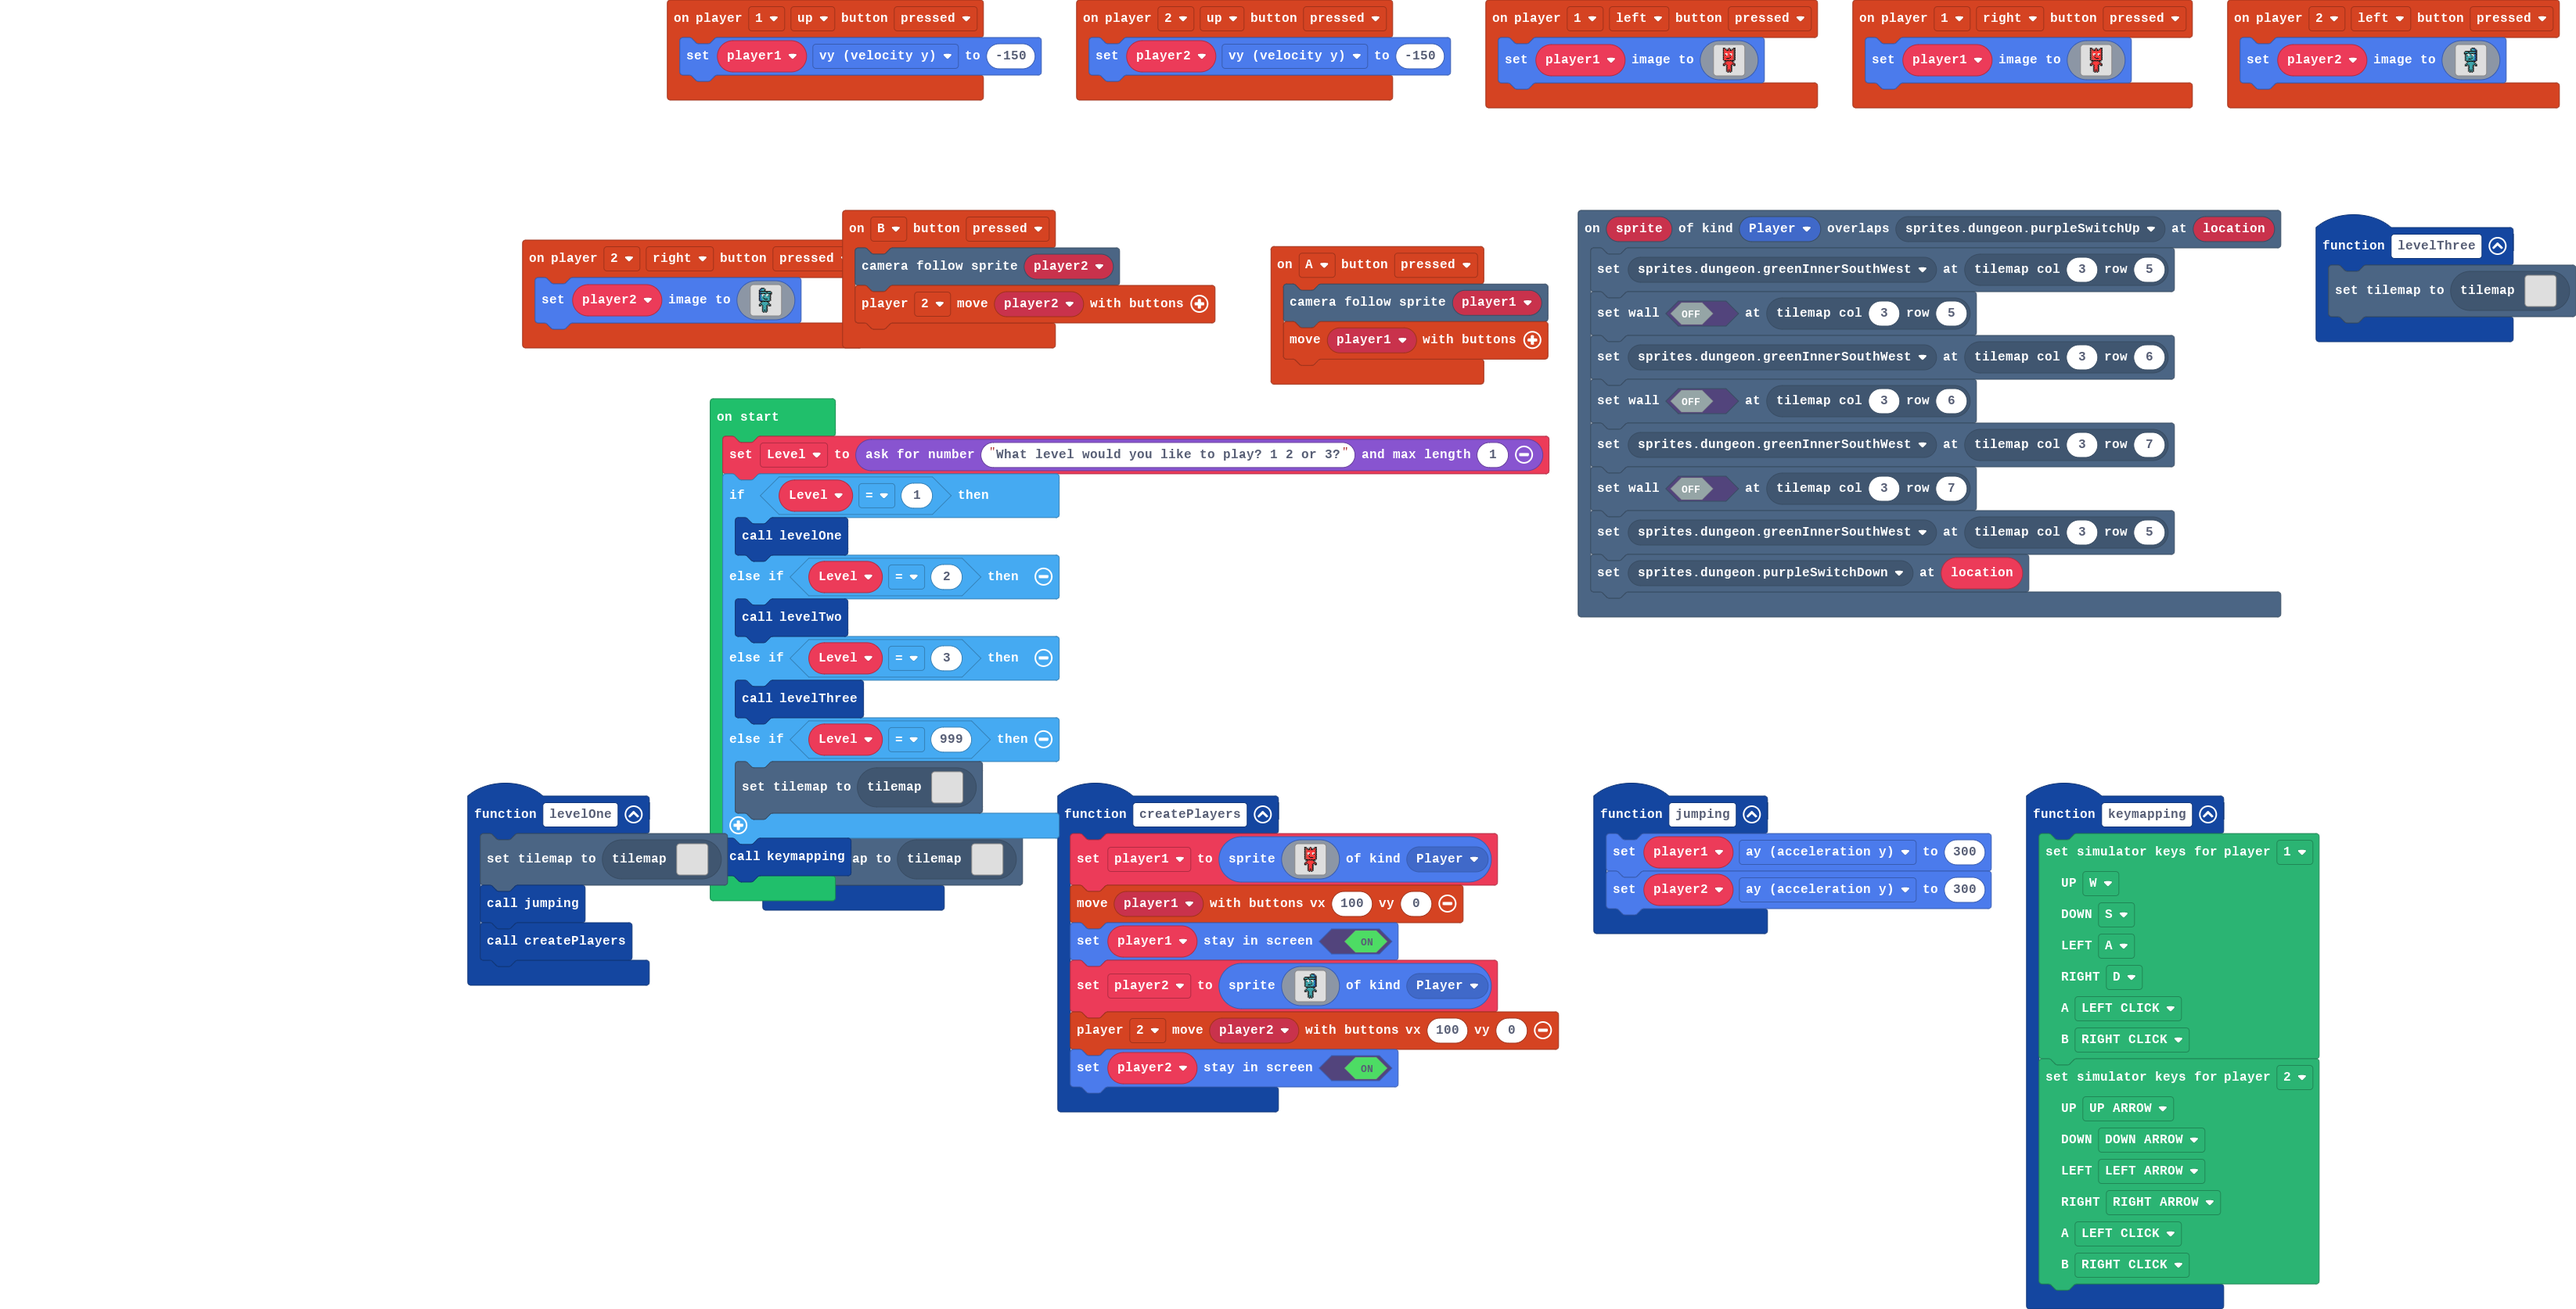
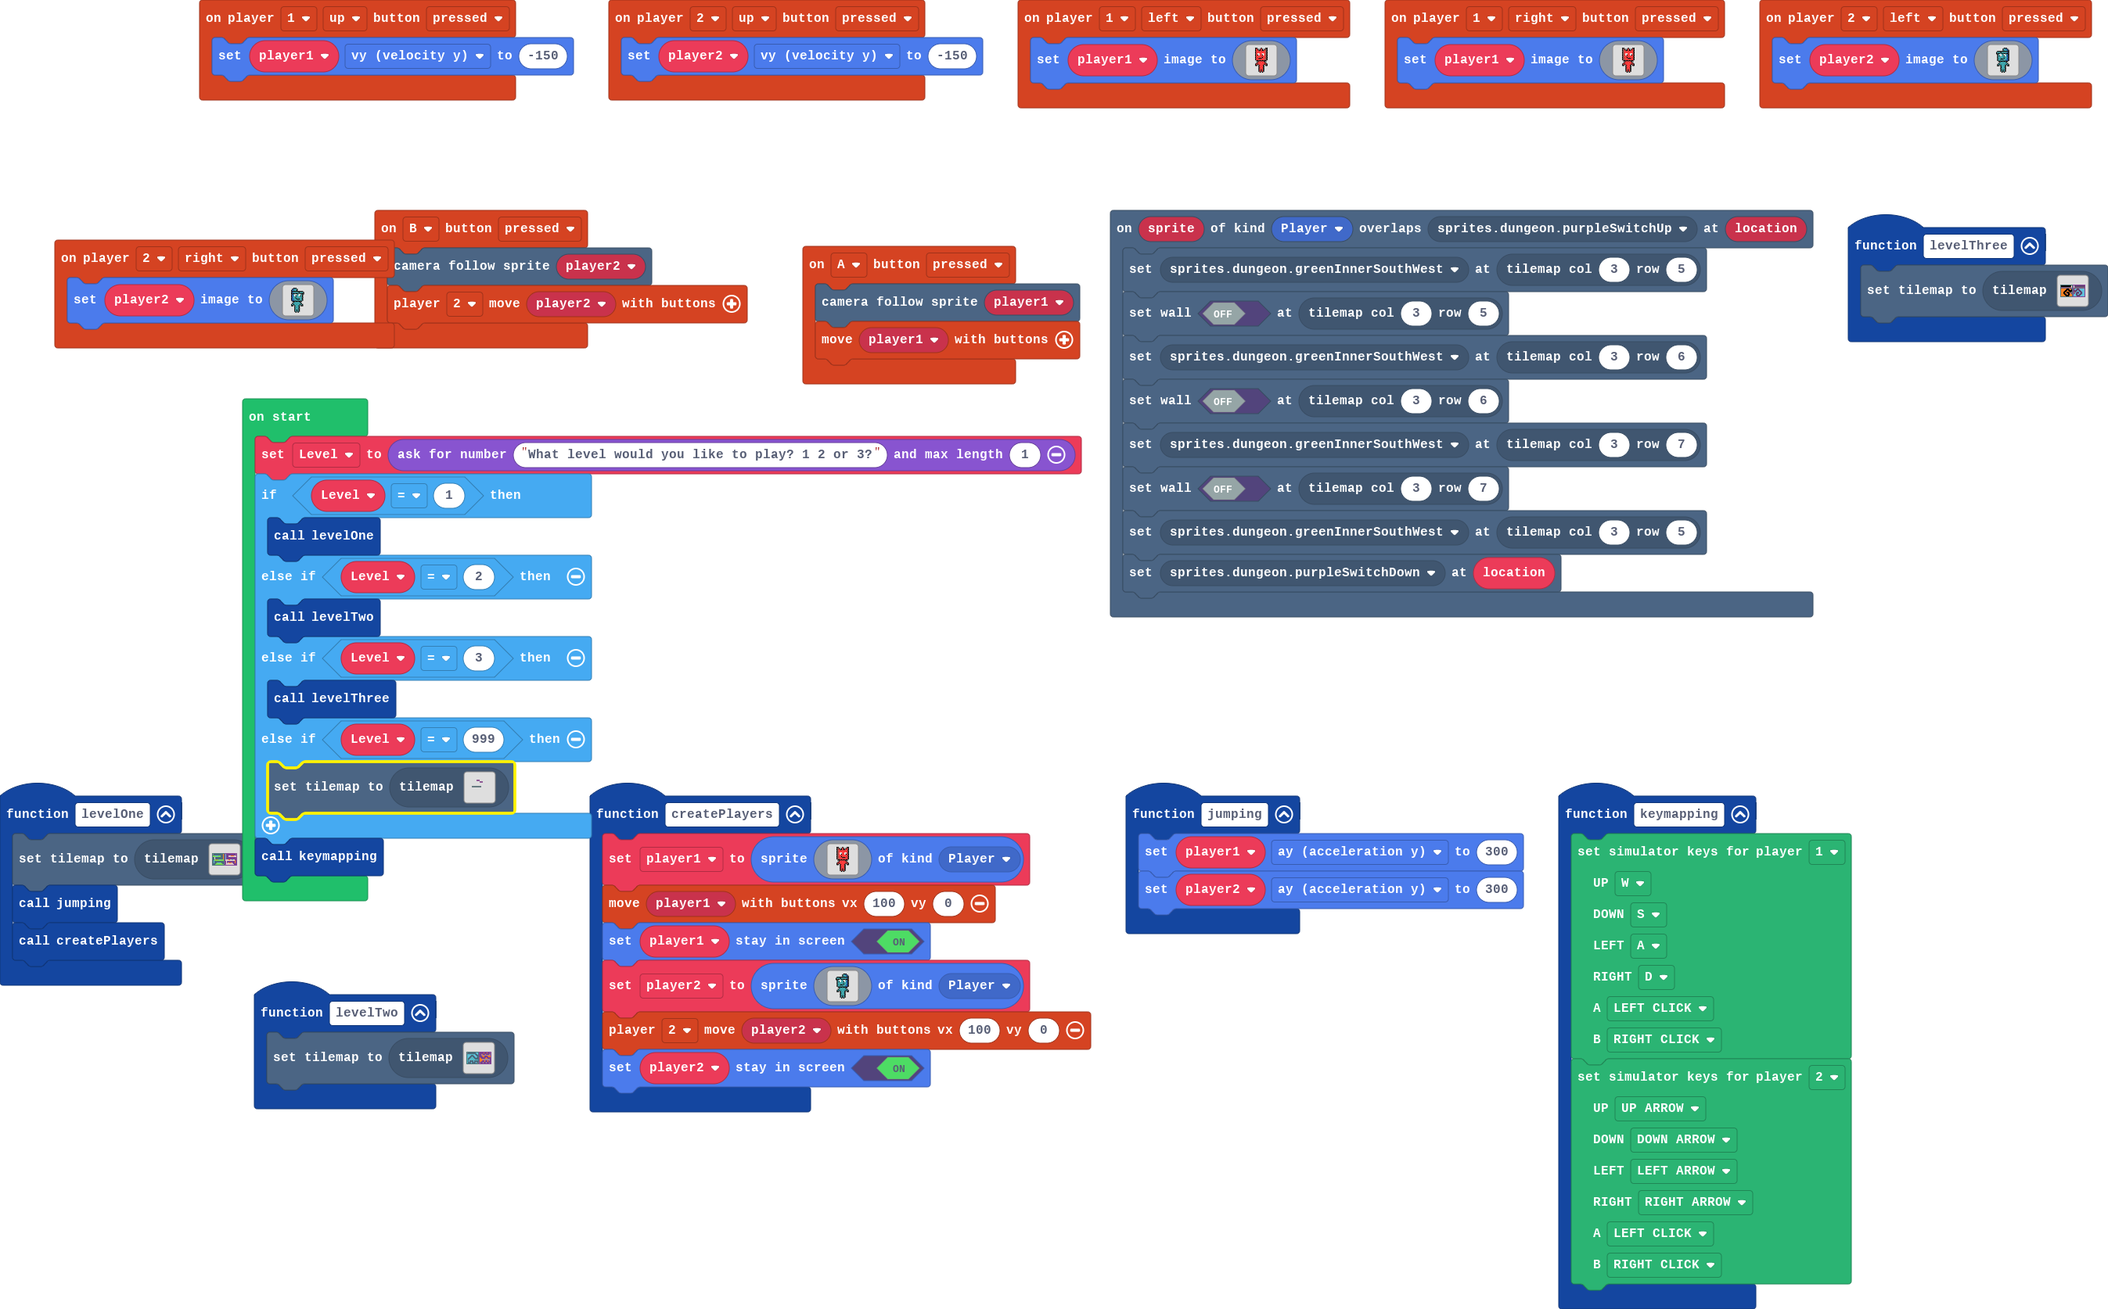
Update main.blocks, main.ts, tilemap.g.jres, tilemap.g.ts

diff --git a/tilemap.g.ts b/tilemap.g.ts
@@ -4,6 +4,14 @@ namespace myTiles {
     export const transparency16 = image.ofBuffer(hex``);
     //% fixedInstance jres blockIdentity=images._tile
     export const tile1 = image.ofBuffer(hex``);
+    //% fixedInstance jres blockIdentity=images._tile
+    export const tile2 = image.ofBuffer(hex``);
+    //% fixedInstance jres blockIdentity=images._tile
+    export const tile3 = image.ofBuffer(hex``);
+    //% fixedInstance jres blockIdentity=images._tile
+    export const tile4 = image.ofBuffer(hex``);
+    //% fixedInstance jres blockIdentity=images._tile
+    export const tile5 = image.ofBuffer(hex``);
 
     helpers._registerFactory("tilemap", function(name: string) {
         switch(helpers.stringTrim(name)) {
@@ -83,6 +91,158 @@ namespace myTiles {
 . . . . . . . . . . . . . . . . 
 . . . . . . . . . . . . . . . . 
 `, [], -Infinity);
+            case "level5":
[1 lines of base64/hex data omitted]
+22222222222222222222222222222222
+2..............22..............2
+2..............22..............2
+2222....222....22....222....2222
+22222222222....22....22222222222
+2..2...........22..............2
+2..2...........22..............2
+2..2...........22..............2
+2..22..22..2222222222..22..22..2
+2..22222222222222222222222222..2
+2..............22.2............2
+2..............22.2............2
+2.....2....2...22.2.2....2.....2
+2....22222222.2222222222222....2
+2...2222222222.22.2222222222...2
+22222222222222222222222222222222
+`, [myTiles.transparency16,sprites.dungeon.greenOuterNorthWest,sprites.dungeon.greenOuterWest0,sprites.dungeon.greenOuterSouthEast,sprites.dungeon.greenOuterNorth0,sprites.dungeon.stairWest,sprites.dungeon.greenInnerSouthWest,sprites.skillmap.islandTile4,sprites.dungeon.greenOuterSouth0,sprites.dungeon.hazardWater,sprites.builtin.brick,sprites.dungeon.hazardLava0,sprites.dungeon.hazardLava1,sprites.dungeon.greenSwitchUp,sprites.dungeon.stairSouth,sprites.dungeon.greenOuterNorthEast,sprites.dungeon.greenOuterEast0,sprites.dungeon.greenOuterSouthWest,sprites.dungeon.purpleOuterNorthWest,sprites.dungeon.purpleOuterWest0,sprites.dungeon.purpleOuterSouthEast,sprites.dungeon.purpleOuterNorth1,sprites.dungeon.floorLight2,sprites.dungeon.purpleInnerNorthWest,sprites.dungeon.stairNorth,sprites.dungeon.purpleOuterSouth0,sprites.dungeon.stairEast,sprites.dungeon.purpleSwitchUp,sprites.dungeon.purpleOuterNorthEast,sprites.dungeon.purpleOuterEast0,sprites.dungeon.purpleOuterSouthWest], TileScale.Sixteen);
+            case "level6":
[1 lines of base64/hex data omitted]
+22222222222222222222222222222222
+...............22..............2
+...............22..............2
+.222222222.....22..2.........222
+.2.............22..2222222222222
+.2.............22..............2
+.2.....2.......22..............2
+.2....222......22..............2
+.2...22222.....22..............2
+.2..2222222....22...2222222222.2
+.2.22222222222222....222222222.2
+.2.............22............2.2
+.2.............22..............2
+...............22....2...2.....2
+...............22....2...2...2.2
+22222222222222222222222222222222
+`, [myTiles.transparency16,sprites.dungeon.greenOuterNorthWest,sprites.dungeon.greenOuterWest0,sprites.dungeon.greenOuterSouthEast,sprites.dungeon.greenOuterNorth0,sprites.dungeon.stairWest,sprites.dungeon.greenInnerSouthWest,sprites.dungeon.collectibleInsignia,sprites.dungeon.greenOuterSouth0,sprites.dungeon.hazardWater,sprites.dungeon.stairSouth,sprites.dungeon.greenOuterNorthEast,sprites.dungeon.greenOuterEast0,sprites.dungeon.greenOuterSouthWest,sprites.dungeon.purpleOuterNorthWest,sprites.dungeon.purpleOuterWest0,sprites.dungeon.purpleOuterSouthEast,sprites.dungeon.purpleOuterNorth1,sprites.dungeon.purpleInnerNorthWest,sprites.dungeon.hazardLava0,sprites.dungeon.stairNorth,sprites.dungeon.purpleOuterSouth0,sprites.dungeon.floorDark0,sprites.dungeon.stairEast,sprites.dungeon.purpleOuterNorthEast,sprites.dungeon.purpleOuterEast0,sprites.dungeon.purpleOuterSouthWest], TileScale.Sixteen);
+            case "level7":
[1 lines of base64/hex data omitted]
+22222222222222222222222222222222
+2.............2222.............2
+2.............2222.............2
+22222222222222222222222222222222
+22222222222222222222222222222222
+2............222222............2
+2..............22..............2
+2..............22..............2
+2..............22..............2
+2.............2222.............2
+2............222222............2
+2.......22...222222...22.......2
+2..............22..............2
+2..............22..............2
+2..............22..............2
+22222222222222222222222222222222
+`, [myTiles.transparency16,sprites.dungeon.greenOuterNorthWest,sprites.dungeon.greenOuterWest1,sprites.dungeon.greenOuterSouthEast,sprites.dungeon.greenOuterNorth0,sprites.builtin.forestTiles10,sprites.builtin.oceanDepths0,sprites.dungeon.hazardLava1,sprites.dungeon.greenOuterSouth0,sprites.dungeon.hazardLava0,myTiles.tile2,myTiles.tile3,sprites.builtin.brick,sprites.dungeon.greenOuterNorthEast,sprites.dungeon.greenOuterEast0,sprites.dungeon.greenOuterSouthWest,sprites.dungeon.purpleOuterNorthWest,sprites.dungeon.purpleOuterWest1,sprites.dungeon.purpleOuterSouthEast,sprites.dungeon.purpleOuterNorth0,sprites.dungeon.darkGroundNorthWest1,sprites.dungeon.hazardWater,sprites.dungeon.purpleOuterSouth1,myTiles.tile4,myTiles.tile5,sprites.dungeon.purpleOuterNorthEast,sprites.dungeon.purpleOuterEast0,sprites.dungeon.purpleOuterSouthWest], TileScale.Sixteen);
+            case "level8":
+            case "level8":return tiles.createTilemap(hex`1000100000000000000000000000000000000000000000000000000000000000000000000000000000000000000000000000000000000000000002020000000000000000000000000000000002020000000000000000000000000000000000000000000000000000000000000000000000000000000000010101010101000000000000000000000000000000000000000000000000000000000000000000000000000000000000000000000000000000000000000000000000000000000000000000000000000000000000000000000000000000000000000000000000000000000000000000000000000000000000000000000000000000000000000000000000000000`, img`
+. . . . . . . . . . . . . . . . 
+. . . . . . . . . . . . . . . . 
+. . . . . . . . . . . . . . . . 
+. . . . . . . . . . . . . . . . 
+. . . . . . . . . . . . . . . . 
+. . . . . . . . . . . . . . . . 
+. . . . . . . . . . . . . . . . 
+. . . . . . . . . . . . . . . . 
+. . . . . . . . . . . . . . . . 
+. . . . . . . . . . . . . . . . 
+. . . . . . . . . . . . . . . . 
+. . . . . . . . . . . . . . . . 
+. . . . . . . . . . . . . . . . 
+. . . . . . . . . . . . . . . . 
+. . . . . . . . . . . . . . . . 
+. . . . . . . . . . . . . . . . 
+`, [myTiles.transparency16,sprites.dungeon.greenSwitchDown,sprites.dungeon.purpleSwitchDown], TileScale.Sixteen);
+            case "level9":
+            case "level9":return tiles.createTilemap(hex`1000100000000000000000000000000000000000000000000000000000000000000000000000000000000000000000000000000000000000000000000000000000000000000000000000000000000000000000000000000000000000000000000000000000000000000000000000000000000000000000000000000000000000000000000000000000000000000000000000000000000000000000000000000000000000000000000000000000000000000000000000000000000000000000000000000000000000000000000000000000000000000000000000000000000000000000000000000000000000000000000000000000000000000000000000000000000000`, img`
+. . . . . . . . . . . . . . . . 
+. . . . . . . . . . . . . . . . 
+. . . . . . . . . . . . . . . . 
+. . . . . . . . . . . . . . . . 
+. . . . . . . . . . . . . . . . 
+. . . . . . . . . . . . . . . . 
+. . . . . . . . . . . . . . . . 
+. . . . . . . . . . . . . . . . 
+. . . . . . . . . . . . . . . . 
+. . . . . . . . . . . . . . . . 
+. . . . . . . . . . . . . . . . 
+. . . . . . . . . . . . . . . . 
+. . . . . . . . . . . . . . . . 
+. . . . . . . . . . . . . . . . 
+. . . . . . . . . . . . . . . . 
+. . . . . . . . . . . . . . . . 
+`, [myTiles.transparency16], TileScale.Sixteen);
+            case "level10":
+            case "level10":return tiles.createTilemap(hex`1000100000000000000000000000000000000000000000000000000000000000000000000000000000000000000000000000000000000000000000000000000000000000000000000000000000000000000000000000000000000000000000000000000000000000000000000000000000000000000000000000000000000000000000000000000000000000000000000000000000000000000000000000000000000000000000000000000000000000000000000000000000000000000000000000000000000000000000000000000000000000000000000000000000000000000000000000000000000000000000000000000000000000000000000000000000000000`, img`
+. . . . . . . . . . . . . . . . 
+. . . . . . . . . . . . . . . . 
+. . . . . . . . . . . . . . . . 
+. . . . . . . . . . . . . . . . 
+. . . . . . . . . . . . . . . . 
+. . . . . . . . . . . . . . . . 
+. . . . . . . . . . . . . . . . 
+. . . . . . . . . . . . . . . . 
+. . . . . . . . . . . . . . . . 
+. . . . . . . . . . . . . . . . 
+. . . . . . . . . . . . . . . . 
+. . . . . . . . . . . . . . . . 
+. . . . . . . . . . . . . . . . 
+. . . . . . . . . . . . . . . . 
+. . . . . . . . . . . . . . . . 
+. . . . . . . . . . . . . . . . 
+`, [myTiles.transparency16], TileScale.Sixteen);
+            case "level11":
+            case "level11":return tiles.createTilemap(hex`1000100000000000000000000000000000000000000000000000000000000000000000000000000000000000000000000000000000000000000000000000000000000000000000000000000000000000000000000000000000000000000000000000000000000000000000000000000000000000000000000000000000000000000000000000000000000000000000000000000000000000000000000000000000000000000000000000000000000000000000000000000000000000000000000000000000000000000000000000000000000000000000000000000000000000000000000000000000000000000000000000000000000000000000000000000000000000`, img`
+. . . . . . . . . . . . . . . . 
+. . . . . . . . . . . . . . . . 
+. . . . . . . . . . . . . . . . 
+. . . . . . . . . . . . . . . . 
+. . . . . . . . . . . . . . . . 
+. . . . . . . . . . . . . . . . 
+. . . . . . . . . . . . . . . . 
+. . . . . . . . . . . . . . . . 
+. . . . . . . . . . . . . . . . 
+. . . . . . . . . . . . . . . . 
+. . . . . . . . . . . . . . . . 
+. . . . . . . . . . . . . . . . 
+. . . . . . . . . . . . . . . . 
+. . . . . . . . . . . . . . . . 
+. . . . . . . . . . . . . . . . 
+. . . . . . . . . . . . . . . . 
+`, [myTiles.transparency16], TileScale.Sixteen);
+            case "level12":
+            case "level12":return tiles.createTilemap(hex`1000100000000000000000000000000000000000000000000000000000000000000000000000000000000000000000000000000000000000000000000000000000000000000000000000000000000000000000000000000000000000000000000000000000000000000000000000000000000000000000000000000000000000000000000000000000000000000000000000000000000000000000000000000000000000000000000000000000000000000000000000000000000000000000000000000000000000000000000000000000000000000000000000000000000000000000000000000000000000000000000000000000000000000000000000000000000000`, img`
+. . . . . . . . . . . . . . . . 
+. . . . . . . . . . . . . . . . 
+. . . . . . . . . . . . . . . . 
+. . . . . . . . . . . . . . . . 
+. . . . . . . . . . . . . . . . 
+. . . . . . . . . . . . . . . . 
+. . . . . . . . . . . . . . . . 
+. . . . . . . . . . . . . . . . 
+. . . . . . . . . . . . . . . . 
+. . . . . . . . . . . . . . . . 
+. . . . . . . . . . . . . . . . 
+. . . . . . . . . . . . . . . . 
+. . . . . . . . . . . . . . . . 
+. . . . . . . . . . . . . . . . 
+. . . . . . . . . . . . . . . . 
+. . . . . . . . . . . . . . . . 
+`, [myTiles.transparency16], TileScale.Sixteen);
         }
         return null;
     })
@@ -91,6 +251,10 @@ namespace myTiles {
         switch(helpers.stringTrim(name)) {
             case "transparency16":return transparency16;
             case "tile1":return tile1;
+            case "tile2":return tile2;
+            case "tile3":return tile3;
+            case "tile4":return tile4;
+            case "tile5":return tile5;
         }
         return null;
     })

diff --git a/main.ts b/main.ts
@@ -1,5 +1,5 @@
 function levelThree () {
-    tiles.setCurrentTilemap(tilemap`level3`)
+    tiles.setCurrentTilemap(tilemap`level7`)
 }
 function jumping () {
     player1.ay = 300
@@ -37,7 +37,7 @@ function keymapping () {
     )
 }
 function levelOne () {
-    tiles.setCurrentTilemap(tilemap`level1`)
+    tiles.setCurrentTilemap(tilemap`level5`)
     jumping()
     createPlayers()
 }
@@ -190,7 +190,7 @@ scene.onOverlapTile(SpriteKind.Player, sprites.dungeon.purpleSwitchUp, function 
     tiles.setTileAt(location, sprites.dungeon.purpleSwitchDown)
 })
 function levelTwo () {
-    tiles.setCurrentTilemap(tilemap`level2`)
+    tiles.setCurrentTilemap(tilemap`level6`)
 }
 controller.player1.onButtonEvent(ControllerButton.Left, ControllerButtonEvent.Pressed, function () {
     player1.setImage(img`
@@ -228,6 +228,6 @@ if (Level == 1) {
 } else if (Level == 3) {
     levelThree()
 } else if (Level == 999) {
-    tiles.setCurrentTilemap(tilemap`level3`)
+    tiles.setCurrentTilemap(tilemap`level8`)
 }
 keymapping()
